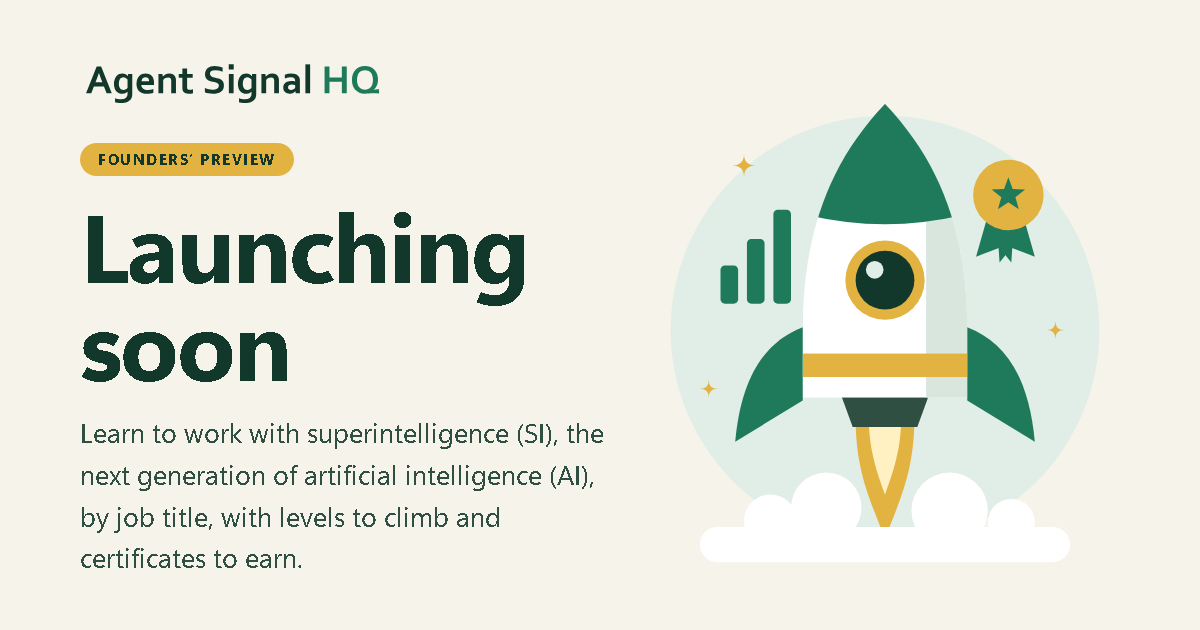
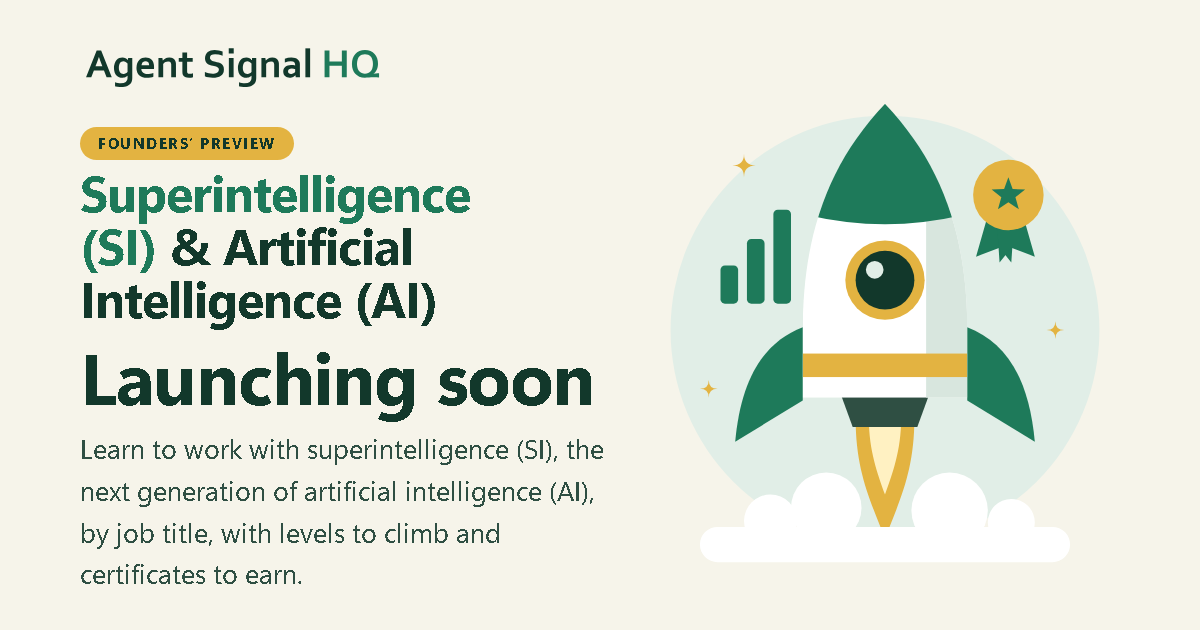
Superintelligence (SI) & Artificial Intelligence (AI) big, bold, front and center (his 10-03 18:59)

Changed region(s): [[0.0617, 0.0603, 0.5242, 0.9349]]

diff --git a/index.html b/index.html
@@ -33,6 +33,7 @@
          (same file name), or drop in a PNG/SVG and change src, width and height here. See README.md. -->
     <a class="brand" href="/" aria-label="Agent Signal HQ, home"><img class="logo" id="logo" src="assets/logo.svg" width="194" height="38" alt="Agent Signal HQ"></a>
   </header>
+  <p class="terms"><span class="t-si">Superintelligence (SI)</span> <span class="t-amp">&amp;</span> <span class="t-ai">Artificial Intelligence (AI)</span></p>
   <main id="main">
     <div class="stage">
 <svg class="rocket" viewBox="0 0 320 360" aria-hidden="true" focusable="false">
@@ -61,8 +62,6 @@
     </div>
     <div class="copy">
       <p class="pill">Founders&rsquo; Preview</p>
-      <p class="topic">Superintelligence (SI) &middot; Artificial Intelligence (AI)</p>
-
       <h1><span class="sr">Agent Signal HQ: </span>Launching soon</h1>
       <p class="lead">Learn to work with superintelligence (SI), the next generation of artificial intelligence (AI), by job title, with levels to climb and certificates to earn.</p>
       <form class="join" id="join" novalidate>

diff --git a/assets/style.css b/assets/style.css
@@ -77,4 +77,8 @@ footer{padding-top:24px;text-align:center;font-size:.875rem;color:var(--muted)}
   footer{text-align:left}
 }
 
-.topic{margin:.2rem 0 .4rem;font-weight:700;font-size:clamp(1.05rem,2.6vw,1.35rem);letter-spacing:.01em;line-height:1.35}
+.terms{margin:16px auto 2px;max-width:24ch;text-align:center;font:800 clamp(1.75rem,7.6vw,3.6rem)/1.06 var(--display);letter-spacing:-.02em;text-wrap:balance;color:var(--ink)}
+.terms .t-si{color:var(--accent)}
+.terms .t-pre{display:block;margin:0 0 .5rem;font:700 clamp(.95rem,2.8vw,1.2rem)/1.3 var(--sans);letter-spacing:.01em;color:var(--ink2)}
+h1{font-size:clamp(2rem,8vw,3rem)}
+@media (min-width:900px){.terms{max-width:none;margin-top:26px}h1{font-size:clamp(2.4rem,3.6vw,3rem)}}
